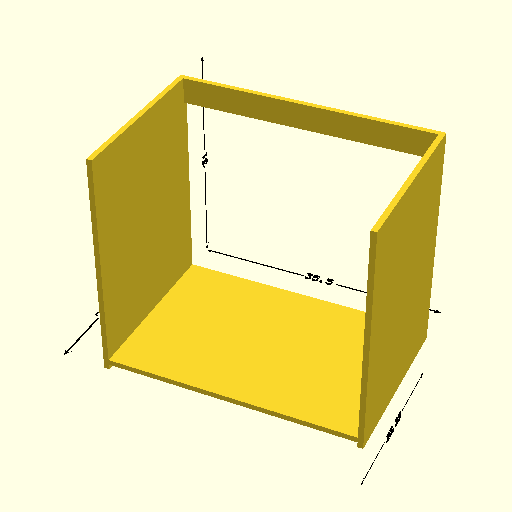
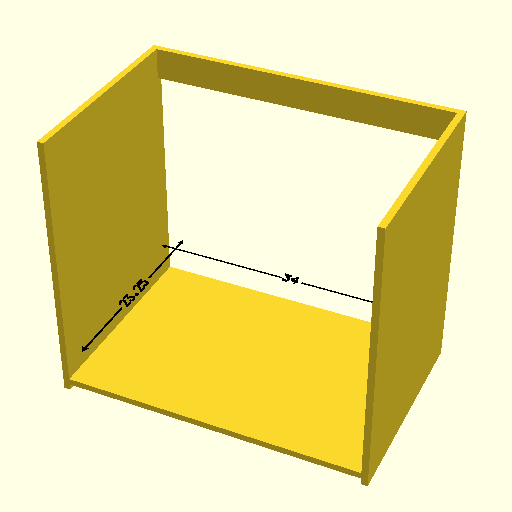
Dining room

Changed region(s): [[0.0625, 0.0938, 0.9375, 0.9688]]

diff --git a/README.md b/README.md
@@ -44,6 +44,9 @@ Repo to learn the art of openscad
 ## preview/modules/kbbq_table.png
 <img src="https://raw.githubusercontent.com/neotericpiguy/Drawings/dev/preview/modules/kbbq_table.png" width="650">
 
+## preview/modules/rooms/kitchen.png
+<img src="https://raw.githubusercontent.com/neotericpiguy/Drawings/dev/preview/modules/rooms/kitchen.png" width="650">
+
 ## preview/modules/rooms/office.png
 <img src="https://raw.githubusercontent.com/neotericpiguy/Drawings/dev/preview/modules/rooms/office.png" width="650">
 
@@ -62,6 +65,9 @@ Repo to learn the art of openscad
 ## preview/modules/top.png
 <img src="https://raw.githubusercontent.com/neotericpiguy/Drawings/dev/preview/modules/top.png" width="650">
 
+## preview/modules/wall/double_door.png
+<img src="https://raw.githubusercontent.com/neotericpiguy/Drawings/dev/preview/modules/wall/double_door.png" width="650">
+
 ## preview/modules/wall/drywall.png
 <img src="https://raw.githubusercontent.com/neotericpiguy/Drawings/dev/preview/modules/wall/drywall.png" width="650">
 
@@ -79,6 +85,9 @@ Repo to learn the art of openscad
 
 ## preview/modules/wall/wall_studs.png
 <img src="https://raw.githubusercontent.com/neotericpiguy/Drawings/dev/preview/modules/wall/wall_studs.png" width="650">
+
+## preview/modules/wall/window.png
+<img src="https://raw.githubusercontent.com/neotericpiguy/Drawings/dev/preview/modules/wall/window.png" width="650">
 
 ## preview/modules/workbench/workbench.png
 <img src="https://raw.githubusercontent.com/neotericpiguy/Drawings/dev/preview/modules/workbench/workbench.png" width="650">
